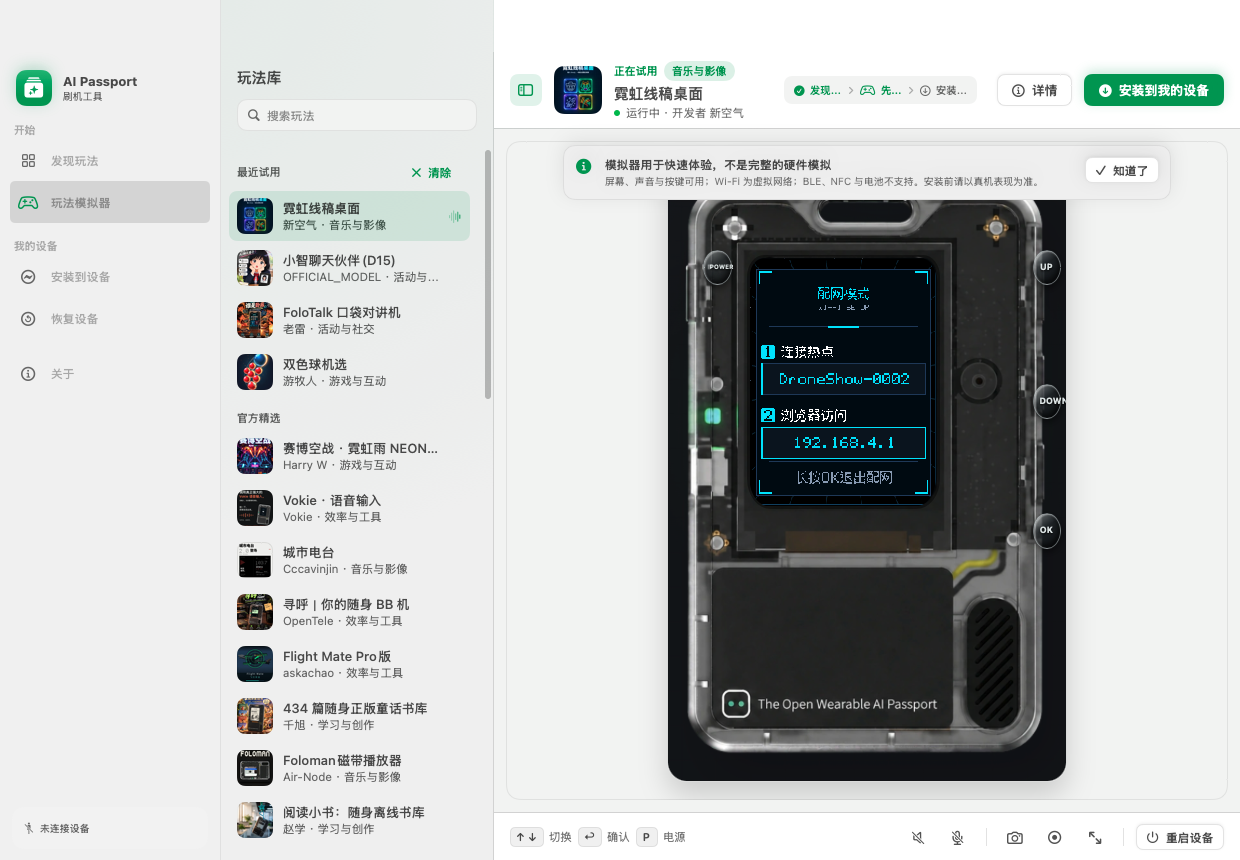
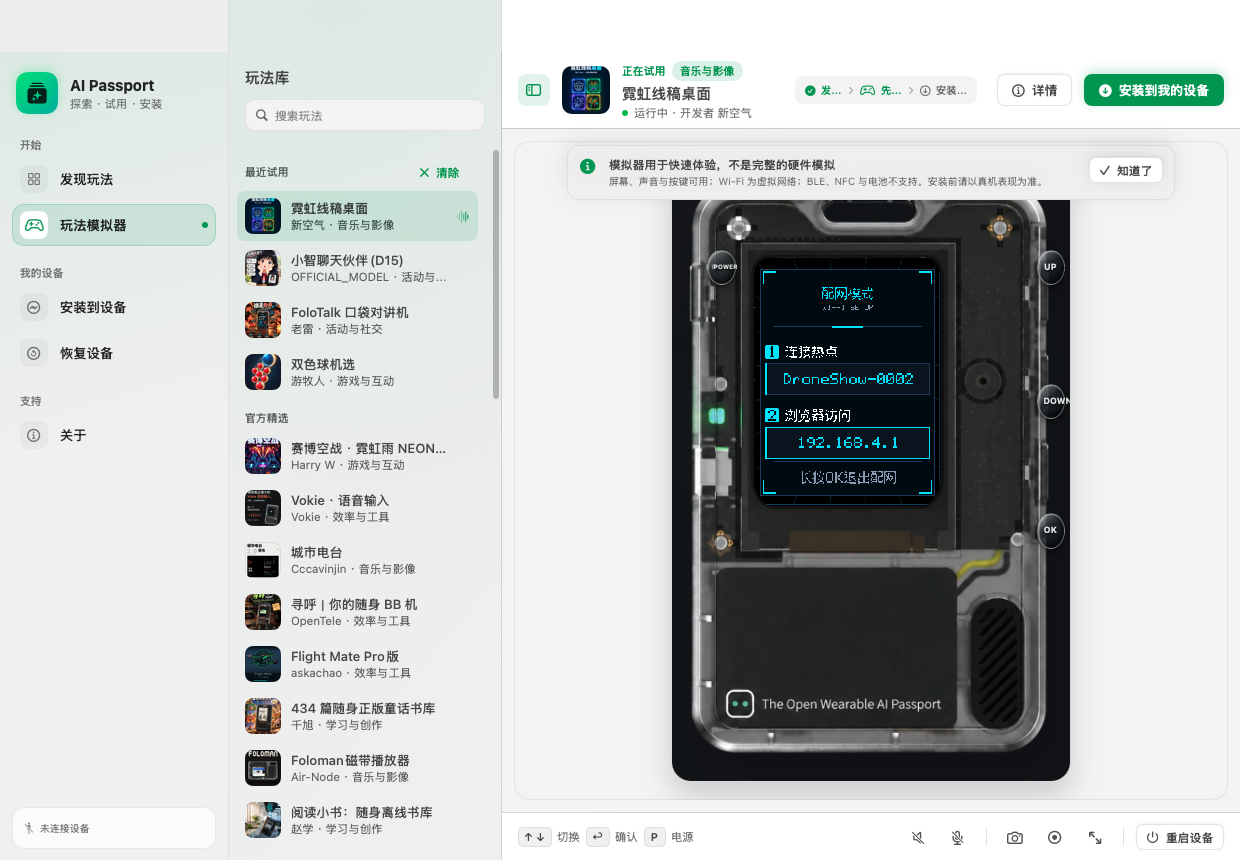
Redesign navigation and discovery experience

diff --git a/Sources/AIPassportFlasher/App/AIPassportFlasherApp.swift b/Sources/AIPassportFlasher/App/AIPassportFlasherApp.swift
@@ -12,7 +12,7 @@ struct AIPassportFlasherApp: App {
             ContentView()
                 .environmentObject(app)
                 .environmentObject(community)
-                .frame(minWidth: 1020, minHeight: 700)
+                .frame(minWidth: 1100, minHeight: 720)
                 .tint(AppTheme.accent)
         }
         .defaultSize(width: 1240, height: 860)
@@ -46,42 +46,38 @@ struct ContentView: View {
     var body: some View {
         NavigationSplitView {
             VStack(spacing: 0) {
-                HStack(spacing: 11) {
-                    Image(systemName: "sparkles.rectangle.stack.fill")
-                        .font(.system(size: 18, weight: .semibold))
-                        .foregroundStyle(.white)
-                        .frame(width: 36, height: 36)
-                        .background(AppTheme.accent.gradient, in: RoundedRectangle(cornerRadius: 10, style: .continuous))
-                        .shadow(color: AppTheme.accent.opacity(0.22), radius: 8, y: 3)
-                    VStack(alignment: .leading, spacing: 1) {
-                        Text("AI Passport").font(.headline)
-                        Text("刷机工具").font(.caption).foregroundStyle(.secondary)
+                sidebarBrand
+                ScrollView {
+                    VStack(alignment: .leading, spacing: Space.l) {
+                        sidebarSection("开始") {
+                            SidebarNavigationRow(tab: .community, title: "发现玩法")
+                            SidebarNavigationRow(tab: .simulator, title: "玩法模拟器")
+                        }
+                        sidebarSection("我的设备") {
+                            SidebarNavigationRow(tab: .flash, title: "安装到设备")
+                            SidebarNavigationRow(tab: .restore, title: "恢复设备")
+                        }
+                        sidebarSection("支持") {
+                            SidebarNavigationRow(tab: .about, title: "关于")
+                        }
                     }
-                    Spacer()
+                    .padding(.horizontal, Space.s)
+                    .padding(.vertical, Space.xs)
+                    .overlayScrollers()
                 }
-                .padding(.horizontal, 16)
-                .padding(.top, 18)
-                .padding(.bottom, 14)
-
-                List(selection: Binding(get: { app.tab }, set: { if let t = $0 { app.tab = t } })) {
-                    Section("开始") {
-                        sidebarRow(.community, title: "发现玩法")
-                        sidebarRow(.simulator, title: "玩法模拟器")
-                    }
-                    Section("我的设备") {
-                        sidebarRow(.flash, title: "安装到设备")
-                        sidebarRow(.restore, title: "恢复设备")
-                    }
-                    Section {
-                        sidebarRow(.about, title: "关于")
-                    }
-                }
-                .listStyle(.sidebar)
-                .scrollContentBackground(.hidden)
                 sidebarFooter
             }
-            .background(.ultraThinMaterial)
-            .navigationSplitViewColumnWidth(min: 210, ideal: 220)
+            .background(
+                ZStack {
+                    Rectangle().fill(.ultraThinMaterial)
+                    LinearGradient(
+                        colors: [Brand.accent.opacity(0.08), .clear],
+                        startPoint: .topLeading,
+                        endPoint: .center
+                    )
+                }
+            )
+            .navigationSplitViewColumnWidth(min: 228, ideal: 240, max: 260)
         } detail: {
             Group {
                 switch app.tab {
@@ -105,17 +101,31 @@ struct ContentView: View {
         }
     }
 
-    private func sidebarRow(_ tab: SidebarTab, title: String) -> some View {
-        HStack(spacing: 11) {
-            Image(systemName: tab.symbol)
-                .font(.system(size: 14, weight: .semibold))
-                .foregroundStyle(app.tab == tab ? AppTheme.accent : .secondary)
-                .frame(width: 24, height: 24)
-            Text(title).font(.callout.weight(app.tab == tab ? .semibold : .medium))
+    private var sidebarBrand: some View {
+        HStack(spacing: Space.s) {
+            IconTile(symbol: "sparkles.rectangle.stack.fill", size: 42)
+            VStack(alignment: .leading, spacing: 2) {
+                Text("AI Passport").font(.system(size: 15, weight: .bold))
+                Text("探索 · 试用 · 安装")
+                    .font(.meta)
+                    .foregroundStyle(.secondary)
+            }
             Spacer()
         }
-        .padding(.vertical, 5)
-        .tag(tab)
+        .padding(.horizontal, Space.m)
+        .padding(.top, Space.l)
+        .padding(.bottom, Space.m)
+    }
+
+    private func sidebarSection<Content: View>(_ title: String, @ViewBuilder content: () -> Content) -> some View {
+        VStack(alignment: .leading, spacing: Space.xxs) {
+            Text(title.uppercased())
+                .font(.eyebrow)
+                .foregroundStyle(.secondary)
+                .padding(.horizontal, Space.xs)
+                .padding(.bottom, 2)
+            content()
+        }
     }
 
     private var sidebarFooter: some View {
@@ -133,8 +143,56 @@ struct ContentView: View {
         }
         .padding(14)
         .frame(maxWidth: .infinity, alignment: .leading)
-        .background(.thinMaterial, in: RoundedRectangle(cornerRadius: 12, style: .continuous))
+        .background(Brand.surface.opacity(0.72), in: RoundedRectangle(cornerRadius: Radius.inset, style: .continuous))
+        .overlay(RoundedRectangle(cornerRadius: Radius.inset, style: .continuous).strokeBorder(Brand.hairline))
         .padding(12)
+    }
+}
+
+private struct SidebarNavigationRow: View {
+    @EnvironmentObject private var app: AppState
+    let tab: SidebarTab
+    let title: String
+    @State private var hovering = false
+
+    var body: some View {
+        let selected = app.tab == tab
+        Button {
+            app.tab = tab
+        } label: {
+            HStack(spacing: Space.s) {
+                Image(systemName: tab.symbol)
+                    .font(.system(size: 13, weight: .semibold))
+                    .foregroundStyle(selected ? Brand.accent : Color.secondary)
+                    .frame(width: 28, height: 28)
+                    .background(
+                        RoundedRectangle(cornerRadius: Radius.control, style: .continuous)
+                            .fill(selected ? Brand.surfaceRaised : Color.primary.opacity(hovering ? 0.07 : 0.04))
+                    )
+                Text(title)
+                    .font(.system(size: 13.5, weight: selected ? .semibold : .medium))
+                    .foregroundStyle(.primary)
+                Spacer()
+                if selected {
+                    Circle().fill(Brand.accent).frame(width: 6, height: 6)
+                }
+            }
+            .padding(.horizontal, Space.xs)
+            .frame(height: 42)
+            .background(
+                RoundedRectangle(cornerRadius: Radius.inset, style: .continuous)
+                    .fill(selected ? Brand.accentSoft : Color.primary.opacity(hovering ? 0.045 : 0))
+            )
+            .overlay(
+                RoundedRectangle(cornerRadius: Radius.inset, style: .continuous)
+                    .strokeBorder(selected ? Brand.accent.opacity(0.20) : Color.clear)
+            )
+            .contentShape(Rectangle())
+        }
+        .buttonStyle(.plain)
+        .onHover { hovering = $0 }
+        .animation(.easeOut(duration: 0.14), value: hovering)
+        .animation(.easeOut(duration: 0.14), value: selected)
     }
 }
 

diff --git a/Sources/AIPassportFlasher/Views/CommunityView.swift b/Sources/AIPassportFlasher/Views/CommunityView.swift
@@ -78,14 +78,14 @@ struct CommunityView: View {
                     HeroFeaturedCard(play: hero, onDetail: { app.detailPlay = hero })
                 }
                 if store.featured.count > 1 {
-                    ScrollView(.horizontal, showsIndicators: false) {
-                        LazyHStack(alignment: .top, spacing: 16) {
-                            ForEach(Array(store.featured.dropFirst().prefix(8))) { play in
-                                FeaturedCard(play: play, onDetail: { app.detailPlay = play })
-                            }
+                    LazyVGrid(
+                        columns: [GridItem(.adaptive(minimum: 270, maximum: 360), spacing: Space.m)],
+                        alignment: .leading,
+                        spacing: Space.m
+                    ) {
+                        ForEach(Array(store.featured.dropFirst().prefix(6))) { play in
+                            FeaturedCard(play: play, onDetail: { app.detailPlay = play })
                         }
-                        .padding(.vertical, 8)
-                        .padding(.horizontal, 2)
                     }
                 }
             }
@@ -418,35 +418,55 @@ struct PlayCard: View {
 }
 
 struct FeaturedCard: View {
+    @EnvironmentObject var app: AppState
     let play: Play
     let onDetail: () -> Void
     @State private var hovering = false
 
     var body: some View {
-        VStack(alignment: .leading, spacing: 9) {
+        VStack(alignment: .leading, spacing: 0) {
             CoverImage(url: play.thumbnailURL)
-                .frame(width: 214, height: 268)
-                .clipShape(RoundedRectangle(cornerRadius: 13, style: .continuous))
-                .overlay(alignment: .topLeading) { Tag(text: play.categoryLabel, tint: .white, onDark: true).padding(10) }
-                .onTapGesture(perform: onDetail)
-            Text(play.title.display).font(.headline.weight(.semibold)).lineLimit(1)
-            Text("开发者 \(play.author ?? "—")").font(.caption).foregroundStyle(.secondary).lineLimit(1)
-            Text(play.description?.display ?? "").font(.caption).foregroundStyle(.secondary).lineLimit(2)
-                .frame(height: 30, alignment: .top)
-            HStack {
-                Button(action: onDetail) {
-                    Label("详情", systemImage: "info.circle")
+                .frame(maxWidth: .infinity)
+                .frame(height: 164)
+                .clipped()
+                .overlay {
+                    LinearGradient(colors: [.clear, .black.opacity(0.16)], startPoint: .center, endPoint: .bottom)
                 }
-                .buttonStyle(.app(.tertiary, size: .small))
-                Spacer()
-                InstallButton(play: play, compact: true)
+                .overlay(alignment: .topLeading) {
+                    HStack(spacing: 6) {
+                        Tag(text: play.categoryLabel, tint: .white, onDark: true)
+                        if play.mustPlay == true { Tag(text: "必玩", tint: .white, onDark: true) }
+                    }
+                    .padding(Space.s)
+                }
+                .onTapGesture(perform: onDetail)
+            VStack(alignment: .leading, spacing: Space.xs) {
+                Text(play.title.display).font(.cardTitle).lineLimit(1)
+                Text("开发者 \(play.author ?? "—")").font(.meta).foregroundStyle(.secondary).lineLimit(1)
+                Text(play.description?.display ?? "")
+                    .font(.bodyText)
+                    .foregroundStyle(.secondary)
+                    .lineLimit(2)
+                    .frame(height: 34, alignment: .top)
+                HStack(spacing: Space.xs) {
+                    Stats(play: play)
+                    Spacer(minLength: 4)
+                    IconButton(symbol: "gamecontroller", help: "先试用", size: .small) {
+                        SimulatorSession.shared.tryPlay(play, app: app)
+                    }
+                    Button(action: onDetail) {
+                        Label("详情", systemImage: "info.circle")
+                    }
+                    .buttonStyle(.app(.tertiary, size: .small))
+                    InstallButton(play: play, compact: true)
+                }
             }
+            .padding(Space.m)
         }
-        .frame(width: 214)
-        .padding(10)
+        .frame(maxWidth: .infinity, alignment: .leading)
         .clipShape(RoundedRectangle(cornerRadius: Radius.card, style: .continuous))
         .card(radius: Radius.card, hovering: hovering)
-        .offset(y: hovering ? -3 : 0)
+        .offset(y: hovering ? -2 : 0)
         .animation(.easeOut(duration: 0.18), value: hovering)
         .onHover { hovering = $0 }
     }
@@ -455,11 +475,11 @@ struct FeaturedCard: View {
 struct FeaturedCardSkeleton: View {
     var body: some View {
         VStack(alignment: .leading, spacing: 8) {
-            RoundedRectangle(cornerRadius: 12).fill(Color.secondary.opacity(0.12)).frame(width: 214, height: 268)
+            RoundedRectangle(cornerRadius: 12).fill(Color.secondary.opacity(0.12)).frame(height: 164)
             RoundedRectangle(cornerRadius: 4).fill(Color.secondary.opacity(0.12)).frame(width: 120, height: 12)
             RoundedRectangle(cornerRadius: 4).fill(Color.secondary.opacity(0.10)).frame(width: 80, height: 10)
         }
-        .padding(10)
+        .padding(Space.m)
         .modernCard(padding: 0)
     }
 }

diff --git a/Sources/AIPassportFlasher/Views/DesignSystem.swift b/Sources/AIPassportFlasher/Views/DesignSystem.swift
@@ -43,8 +43,8 @@ enum Radius {
     static let control: CGFloat = 8
     static let field: CGFloat = 10
     static let inset: CGFloat = 12
-    static let card: CGFloat = 14
-    static let hero: CGFloat = 20
+    static let card: CGFloat = 16
+    static let hero: CGFloat = 24
 }
 
 extension NSColor {
@@ -61,9 +61,9 @@ extension Color {
 }
 
 extension Font {
-    static let pageTitle = Font.system(size: 26, weight: .bold)
-    static let heroTitle = Font.system(size: 24, weight: .bold)
-    static let sectionTitle = Font.system(size: 18, weight: .semibold)
+    static let pageTitle = Font.system(size: 28, weight: .bold)
+    static let heroTitle = Font.system(size: 26, weight: .bold)
+    static let sectionTitle = Font.system(size: 19, weight: .semibold)
     static let cardTitle = Font.system(size: 15, weight: .semibold)
     static let bodyText = Font.system(size: 13)
     static let meta = Font.system(size: 11.5)
@@ -126,12 +126,27 @@ extension Page where Accessory == EmptyView {
 
 struct PageBackground: View {
     var body: some View {
-        ZStack(alignment: .topLeading) {
+        ZStack {
             Color(nsColor: .windowBackgroundColor)
-            RadialGradient(colors: [Brand.accent.opacity(0.08), .clear], center: .topLeading, startRadius: 0, endRadius: 560)
-                .frame(height: 520)
-                .allowsHitTesting(false)
+            LinearGradient(
+                colors: [Brand.accent.opacity(0.055), .clear, Color.cyan.opacity(0.025)],
+                startPoint: .topLeading,
+                endPoint: .bottomTrailing
+            )
+            RadialGradient(
+                colors: [Brand.accent.opacity(0.10), .clear],
+                center: UnitPoint(x: 0.12, y: 0.02),
+                startRadius: 0,
+                endRadius: 520
+            )
+            RadialGradient(
+                colors: [Color.cyan.opacity(0.055), .clear],
+                center: UnitPoint(x: 0.92, y: 0.28),
+                startRadius: 0,
+                endRadius: 430
+            )
         }
+        .allowsHitTesting(false)
         .ignoresSafeArea()
     }
 }
@@ -196,8 +211,8 @@ struct CardStyle: ViewModifier {
             .background(RoundedRectangle(cornerRadius: radius, style: .continuous).fill(Brand.surface))
             .overlay(RoundedRectangle(cornerRadius: radius, style: .continuous)
                 .strokeBorder(hovering ? Brand.accent.opacity(0.35) : Brand.hairline))
-            .shadow(color: .black.opacity(elevated || hovering ? 0.13 : 0.05),
-                    radius: elevated || hovering ? 16 : 5, y: elevated || hovering ? 8 : 2)
+            .shadow(color: .black.opacity(elevated || hovering ? 0.13 : 0.045),
+                    radius: elevated || hovering ? 18 : 7, y: elevated || hovering ? 9 : 3)
     }
 }
 
